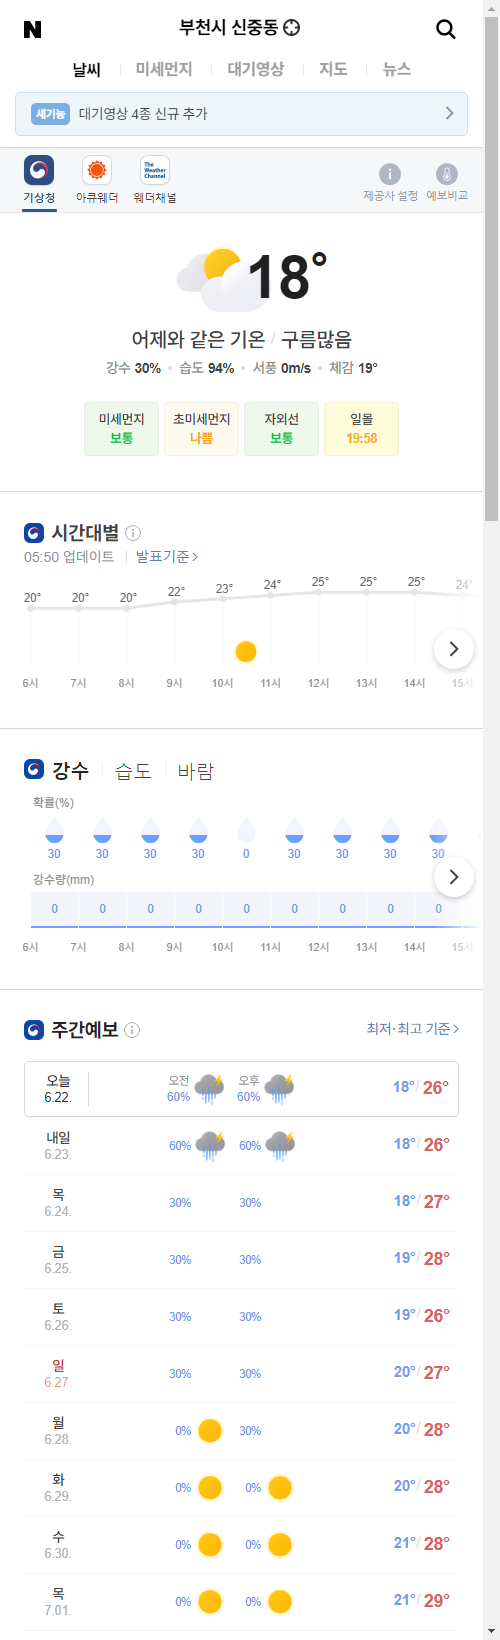
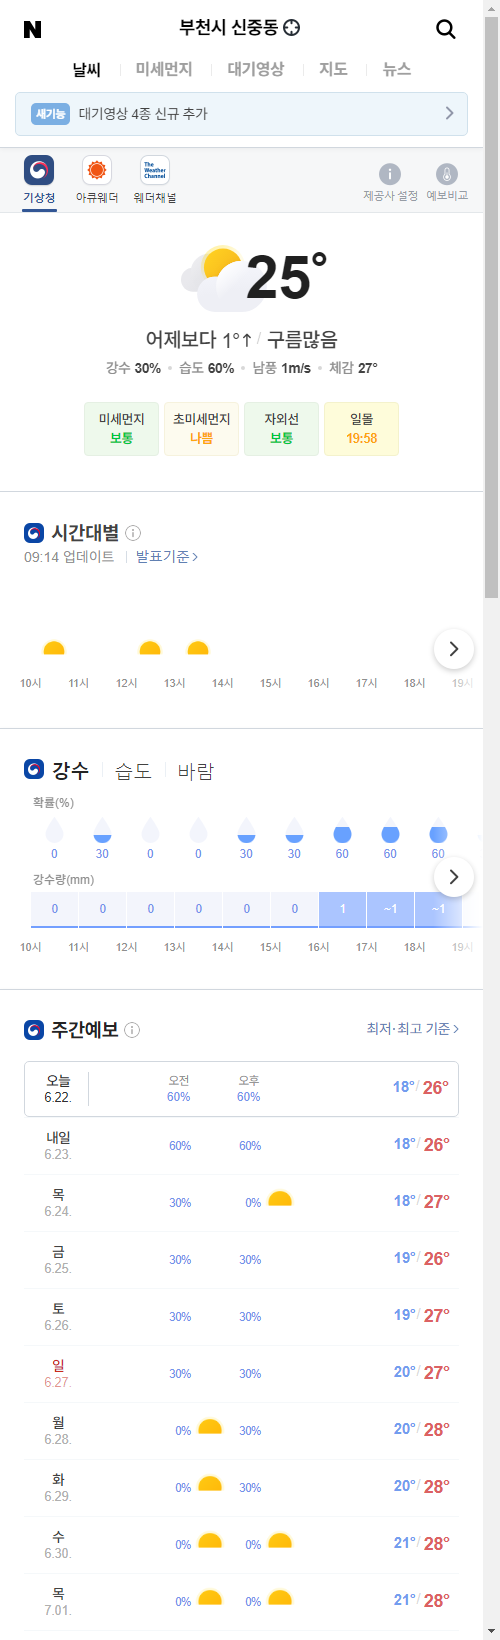
update result

diff --git a/README.md b/README.md
@@ -1,5 +1,5 @@
-##  2021-06-22 05:54:46   화요일 
-##### 날씨   -   어제와 같은 기온구름많음  
+##  2021-06-22 09:17:05   화요일 
+##### 날씨   -   어제보다 1° 높아요구름많음  
 <center><img src="../img/naver_weather_week.png"></center>
 ----
 ----
@@ -23,34 +23,34 @@
 ##### 시장
 <table border="1" bordercolor="blue" align = "center" >
 <tr align = "right" > <td>Item</td><td>Price</td><td>Diff</td><td>Rate</td><td>Buy</td><td>Sell</td><td>...</td>  </tr>
-<tr align = "right" > <td>USD</td><td>1,133.0</td><td>1.0</td><td><font size="3" color="red">0.09%</font></td><td><font size="3" color="black">1,110</font></td><td><font size="3" color="black">0</font></td><td>0</td>  </tr>
-<tr align = "right" > <td>WTI</td><td>71.64</td><td>0.6</td><td><font size="3" color="red">0.84%</font></td><td><font size="3" color="black">29.0</font></td><td><font size="3" color="black">0</font></td><td>0</td>  </tr>
-<tr align = "right" > <td>GOLD</td><td>1,767.0</td><td>-5.9</td><td><font size="3" color="blue">-0.33%</font></td><td><font size="3" color="black">0</font></td><td><font size="3" color="black">0</font></td><td>0</td>  </tr>
+<tr align = "right" > <td>USD</td><td>1,132.0</td><td>-0.8</td><td><font size="3" color="blue">-0.07%</font></td><td><font size="3" color="black">1,110</font></td><td><font size="3" color="black">0</font></td><td>0</td>  </tr>
+<tr align = "right" > <td>WTI</td><td>73.12</td><td>1.83</td><td><font size="3" color="red">2.56%</font></td><td><font size="3" color="black">29.0</font></td><td><font size="3" color="black">0</font></td><td>0</td>  </tr>
+<tr align = "right" > <td>GOLD</td><td>1,782.0</td><td>13.9</td><td><font size="3" color="red">0.78%</font></td><td><font size="3" color="black">0</font></td><td><font size="3" color="black">0</font></td><td>0</td>  </tr>
 </table>
 ----
 ##### 주가
 <table border="1" bordercolor="blue" align = "center" >
 <tr align = "right" > <td>Item</td><td>Price</td><td>Diff</td><td>Rate</td><td>Purchased</td><td>Sell</td><td>Buy</td>  </tr>
-<tr align = "right" > <td>한국 전력</td><td>25,050</td><td>-1,850</td><td><font size="3" color="blue">-6.88%</font></td><td>25,720</td><td><font size="3" color="black">27,700</font></td><td><font size="3" color="black">20,700</font></td>  </tr>
-<tr align = "right" > <td>삼성엔지니어.</td><td>24,100</td><td>0</td><td><font size="3" color="black">0.0%</font></td><td>18,935</td><td><font size="3" color="black">20,000</font></td><td><font size="3" color="black">8,000</font></td>  </tr>
-<tr align = "right" > <td>CJ CGV</td><td>30,900</td><td>-800</td><td><font size="3" color="blue">-2.52%</font></td><td>34,895</td><td><font size="3" color="black">36,000</font></td><td><font size="3" color="black">0</font></td>  </tr>
-<tr align = "right" > <td>아모레퍼시픽</td><td>278,000</td><td>-3,500</td><td><font size="3" color="blue">-1.24%</font></td><td>235,350</td><td><font size="3" color="black">240,000</font></td><td><font size="3" color="black">130,000</font></td>  </tr>
-<tr align = "right" > <td>한화</td><td>31,300</td><td>-1,050</td><td><font size="3" color="blue">-3.25%</font></td><td>25,550</td><td><font size="3" color="black">26,250</font></td><td><font size="3" color="black">26,250</font></td>  </tr>
-<tr align = "right" > <td>NAVER</td><td>397,000</td><td>-1,000</td><td><font size="3" color="blue">-0.25%</font></td><td>147,200</td><td><font size="3" color="black">386,000</font></td><td><font size="3" color="black">286,000</font></td>  </tr>
-<tr align = "right" > <td>LG 화학우</td><td>372,000</td><td>-5,000</td><td><font size="3" color="blue">-1.33%</font></td><td>202,490</td><td><font size="3" color="black">384,000</font></td><td><font size="3" color="orangered">384,000</font></td>  </tr>
-<tr align = "right" > <td>스튜디오드래.</td><td>96,300</td><td>-700</td><td><font size="3" color="blue">-0.72%</font></td><td>81,243</td><td><font size="3" color="black">85,200</font></td><td><font size="3" color="black">85,200</font></td>  </tr>
-<tr align = "right" > <td>QV미국IT</td><td>29,245</td><td>-395</td><td><font size="3" color="blue">-1.33%</font></td><td>0</td><td><font size="3" color="black">30,000</font></td><td><font size="3" color="black">20,000</font></td>  </tr>
-<tr align = "right" > <td>삼성 전자우</td><td>73,500</td><td>-500</td><td><font size="3" color="blue">-0.68%</font></td><td>48,250</td><td><font size="3" color="black">56,000</font></td><td><font size="3" color="black">45,000</font></td>  </tr>
-<tr align = "right" > <td>LS</td><td>68,800</td><td>-2,500</td><td><font size="3" color="blue">-3.51%</font></td><td>71,900</td><td><font size="3" color="black">82,000</font></td><td><font size="3" color="black">60,000</font></td>  </tr>
-<tr align = "right" > <td>한화에어로스.</td><td>46,950</td><td>-1,650</td><td><font size="3" color="blue">-3.4%</font></td><td>25,700</td><td><font size="3" color="black">30,000</font></td><td><font size="3" color="black">24,000</font></td>  </tr>
-<tr align = "right" > <td>카카오</td><td>155,000</td><td>0</td><td><font size="3" color="black">0.0%</font></td><td>405,500</td><td><font size="3" color="black">440,000</font></td><td><font size="3" color="orangered">400,000</font></td>  </tr>
-<tr align = "right" > <td>호텔 신라</td><td>95,500</td><td>-2,700</td><td><font size="3" color="blue">-2.75%</font></td><td>72,800</td><td><font size="3" color="black">100,000</font></td><td><font size="3" color="black">70,000</font></td>  </tr>
-<tr align = "right" > <td>S-Oil</td><td>100,500</td><td>500</td><td><font size="3" color="red">0.5%</font></td><td>62,842</td><td><font size="3" color="black">100,000</font></td><td><font size="3" color="black">50,000</font></td>  </tr>
-<tr align = "right" > <td>LG전자</td><td>160,500</td><td>3,500</td><td><font size="3" color="red">2.23%</font></td><td>82,022</td><td><font size="3" color="black">100,000</font></td><td><font size="3" color="black">60,000</font></td>  </tr>
-<tr align = "right" > <td>KT&G</td><td>84,400</td><td>-600</td><td><font size="3" color="blue">-0.71%</font></td><td>80,400</td><td><font size="3" color="black">100,000</font></td><td><font size="3" color="black">70,000</font></td>  </tr>
-<tr align = "right" > <td>지역난방공사</td><td>44,350</td><td>-1,350</td><td><font size="3" color="blue">-2.95%</font></td><td>43,590</td><td><font size="3" color="black">60,000</font></td><td><font size="3" color="black">30,000</font></td>  </tr>
-<tr align = "right" > <td>KOEDX은행</td><td>7,430</td><td>-175</td><td><font size="3" color="blue">-2.3%</font></td><td>5,178</td><td><font size="3" color="black">6,225</font></td><td><font size="3" color="black">6,225</font></td>  </tr>
-<tr align = "right" > <td>글로벌럭셔리</td><td>17,830</td><td>-285</td><td><font size="3" color="blue">-1.57%</font></td><td>15,260</td><td><font size="3" color="black">20,000</font></td><td><font size="3" color="black">10,000</font></td>  </tr>
-<tr align = "right" > <td>한국금융지주</td><td>101,500</td><td>-2,500</td><td><font size="3" color="blue">-2.4%</font></td><td>0</td><td><font size="3" color="black">82,000</font></td><td><font size="3" color="black">60,000</font></td>  </tr>
+<tr align = "right" > <td>한국 전력</td><td>25,250</td><td>200</td><td><font size="3" color="red">0.8%</font></td><td>25,720</td><td><font size="3" color="black">27,700</font></td><td><font size="3" color="black">20,700</font></td>  </tr>
+<tr align = "right" > <td>삼성엔지니어.</td><td>24,400</td><td>300</td><td><font size="3" color="red">1.24%</font></td><td>18,935</td><td><font size="3" color="black">20,000</font></td><td><font size="3" color="black">8,000</font></td>  </tr>
+<tr align = "right" > <td>CJ CGV</td><td>31,250</td><td>350</td><td><font size="3" color="red">1.13%</font></td><td>34,895</td><td><font size="3" color="black">36,000</font></td><td><font size="3" color="black">0</font></td>  </tr>
+<tr align = "right" > <td>아모레퍼시픽</td><td>276,500</td><td>-1,500</td><td><font size="3" color="blue">-0.54%</font></td><td>235,350</td><td><font size="3" color="black">240,000</font></td><td><font size="3" color="black">130,000</font></td>  </tr>
+<tr align = "right" > <td>한화</td><td>31,500</td><td>200</td><td><font size="3" color="red">0.64%</font></td><td>25,550</td><td><font size="3" color="black">26,250</font></td><td><font size="3" color="black">26,250</font></td>  </tr>
+<tr align = "right" > <td>NAVER</td><td>395,500</td><td>-1,500</td><td><font size="3" color="blue">-0.38%</font></td><td>147,200</td><td><font size="3" color="black">386,000</font></td><td><font size="3" color="black">286,000</font></td>  </tr>
+<tr align = "right" > <td>LG 화학우</td><td>373,000</td><td>1,000</td><td><font size="3" color="red">0.27%</font></td><td>202,490</td><td><font size="3" color="black">384,000</font></td><td><font size="3" color="orangered">384,000</font></td>  </tr>
+<tr align = "right" > <td>스튜디오드래.</td><td>97,400</td><td>1,100</td><td><font size="3" color="red">1.14%</font></td><td>81,243</td><td><font size="3" color="black">85,200</font></td><td><font size="3" color="black">85,200</font></td>  </tr>
+<tr align = "right" > <td>QV미국IT</td><td>29,440</td><td>195</td><td><font size="3" color="red">0.67%</font></td><td>0</td><td><font size="3" color="black">30,000</font></td><td><font size="3" color="black">20,000</font></td>  </tr>
+<tr align = "right" > <td>삼성 전자우</td><td>73,800</td><td>300</td><td><font size="3" color="red">0.41%</font></td><td>48,250</td><td><font size="3" color="black">56,000</font></td><td><font size="3" color="black">45,000</font></td>  </tr>
+<tr align = "right" > <td>LS</td><td>69,300</td><td>500</td><td><font size="3" color="red">0.73%</font></td><td>71,900</td><td><font size="3" color="black">82,000</font></td><td><font size="3" color="black">60,000</font></td>  </tr>
+<tr align = "right" > <td>한화에어로스.</td><td>47,350</td><td>400</td><td><font size="3" color="red">0.85%</font></td><td>25,700</td><td><font size="3" color="black">30,000</font></td><td><font size="3" color="black">24,000</font></td>  </tr>
+<tr align = "right" > <td>카카오</td><td>155,500</td><td>500</td><td><font size="3" color="red">0.32%</font></td><td>405,500</td><td><font size="3" color="black">440,000</font></td><td><font size="3" color="orangered">400,000</font></td>  </tr>
+<tr align = "right" > <td>호텔 신라</td><td>96,600</td><td>1,100</td><td><font size="3" color="red">1.15%</font></td><td>72,800</td><td><font size="3" color="black">100,000</font></td><td><font size="3" color="black">70,000</font></td>  </tr>
+<tr align = "right" > <td>S-Oil</td><td>103,000</td><td>2,500</td><td><font size="3" color="red">2.49%</font></td><td>62,842</td><td><font size="3" color="black">100,000</font></td><td><font size="3" color="black">50,000</font></td>  </tr>
+<tr align = "right" > <td>LG전자</td><td>161,000</td><td>500</td><td><font size="3" color="red">0.31%</font></td><td>82,022</td><td><font size="3" color="black">100,000</font></td><td><font size="3" color="black">60,000</font></td>  </tr>
+<tr align = "right" > <td>KT&G</td><td>84,500</td><td>100</td><td><font size="3" color="red">0.12%</font></td><td>80,400</td><td><font size="3" color="black">100,000</font></td><td><font size="3" color="black">70,000</font></td>  </tr>
+<tr align = "right" > <td>지역난방공사</td><td>44,450</td><td>100</td><td><font size="3" color="red">0.23%</font></td><td>43,590</td><td><font size="3" color="black">60,000</font></td><td><font size="3" color="black">30,000</font></td>  </tr>
+<tr align = "right" > <td>KOEDX은행</td><td>7,525</td><td>95</td><td><font size="3" color="red">1.28%</font></td><td>5,178</td><td><font size="3" color="black">6,225</font></td><td><font size="3" color="black">6,225</font></td>  </tr>
+<tr align = "right" > <td>글로벌럭셔리</td><td>18,045</td><td>215</td><td><font size="3" color="red">1.21%</font></td><td>15,260</td><td><font size="3" color="black">20,000</font></td><td><font size="3" color="black">10,000</font></td>  </tr>
+<tr align = "right" > <td>한국금융지주</td><td>102,500</td><td>1,000</td><td><font size="3" color="red">0.99%</font></td><td>0</td><td><font size="3" color="black">82,000</font></td><td><font size="3" color="black">60,000</font></td>  </tr>
 </table>
 ----
